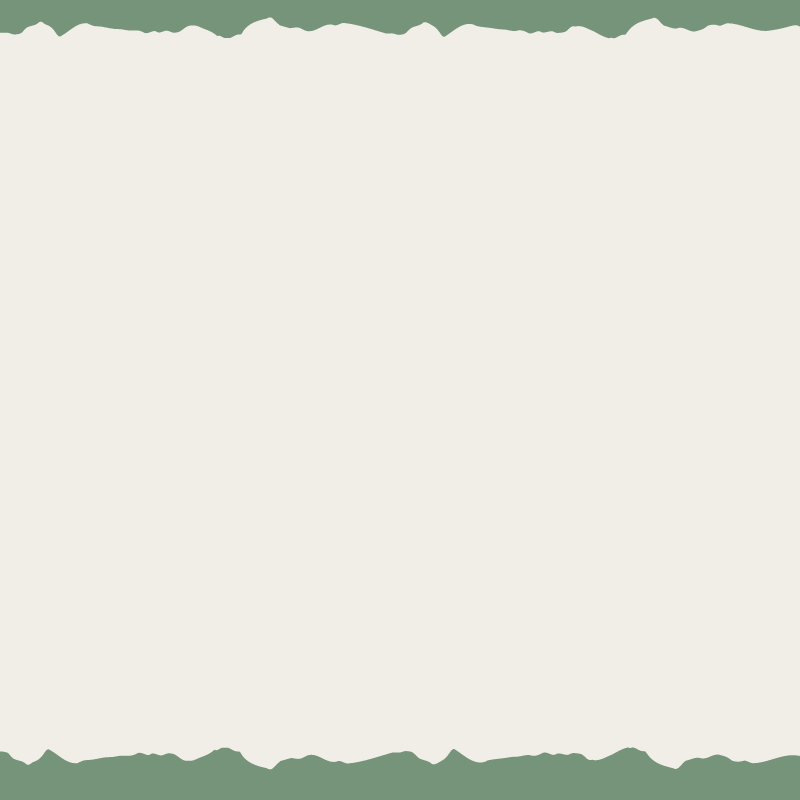
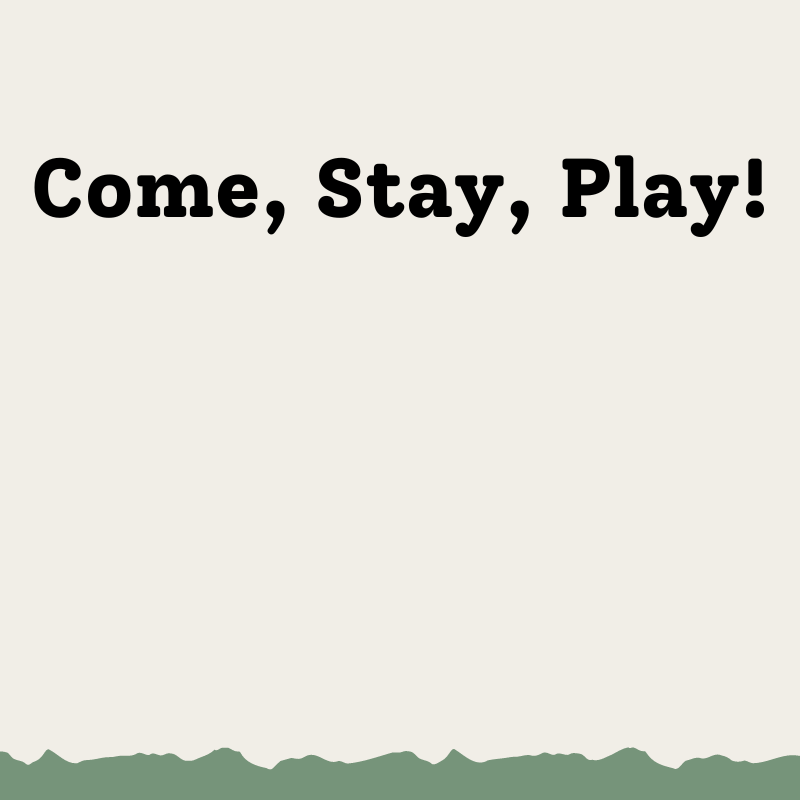
header/nav replace images and style text

Changed region(s): [[0.0312, 0.1875, 0.9688, 0.3125], [0.0, 0.0, 1.0, 0.0625]]

diff --git a/index.html b/index.html
@@ -15,7 +15,7 @@
 <body>
   <header>
         <!-- navbar -->
-        <nav class="navbar fixed-top navbar-expand-md navbar-dark green-bg">
+        <nav class="navbar p-1 fixed-top navbar-expand-lg navbar-light cream-bg">
             <!-- navbar logo --> 
             <div class="container-fluid">
             
@@ -40,19 +40,19 @@
                             <li class="nav-link">
                                 <a class="nav-link nav-text" href="#testimonials">Testimonials</a>
                             </li> 
-                            <li class="nav-item nav-text d-lg-none">
+                            <li class="nav-item nav-text d-md-none">
                                 <a class="nav-link" href="#contact">Contact</a>
                             </li> 
-                            <li class="nav-item nav-text d-none d-lg-inline">
-                                <a class="btn btn-secondary nav-text" href="#contact">Contact</a>
+                            <li class="nav-item nav-text d-none d-md-inline">
+                                <a class="btn btn-outline-dark nav-text" href="#contact">Contact</a>
                             </li>
                     </ul>
                 </div>
             </div>
         </nav> 
         <!--tagline display on sm/xs-->
-        <section class="container-fluid">
-            <div class="row g-0 pt-3 d-flex align-items-center d-md-none">
+        <section class="container-fluid cream-bg">
+            <div class="row g-0 pt-5 d-flex align-items-center justify-items-center d-md-none">
                 
                     <h1 class=" text-center tagline">Come, Stay, Play!</h1>
             </div>

diff --git a/assets/css/stylesheet.css b/assets/css/stylesheet.css
@@ -10,7 +10,7 @@ body {
     letter-spacing: 1px;
     font-weight: 300;
     margin:0;
-    padding: 175px 0px 0px 0px;
+    padding: 70px 0px 0px 0px;
     background-color: #76947A;
 
     
@@ -18,9 +18,9 @@ body {
 
 
 .nav-text {
-    color:#F1EEE7 !important;
-    font-size: 2vw !important;
-    letter-spacing: 1px !important;
+    color: #76947A !important;
+    font-size: 21px !important;
+    letter-spacing: 1.5px !important;
     font-family: solway !important;
     font-weight:700;
     
@@ -58,7 +58,7 @@ body {
 
 .tagline {
     font-size: 10vw !important;
-    color: #F1EEE7;
+    color: black;
     
     font-weight: 600;
 }
